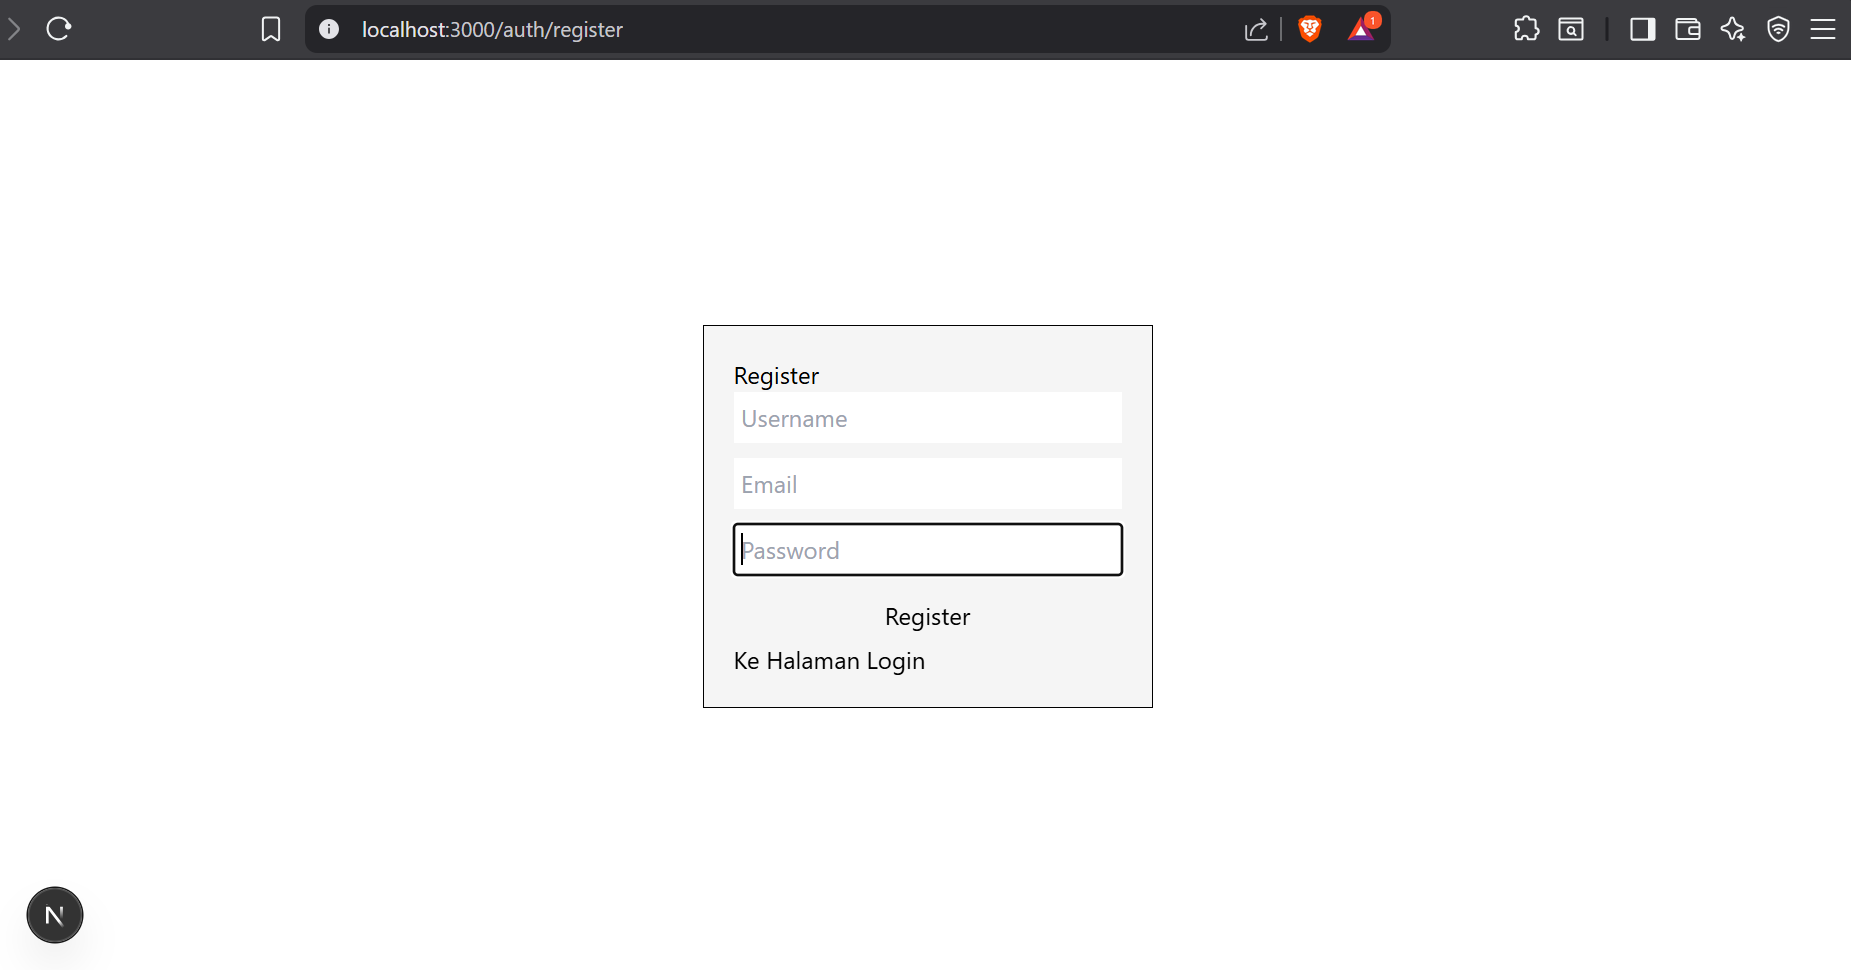
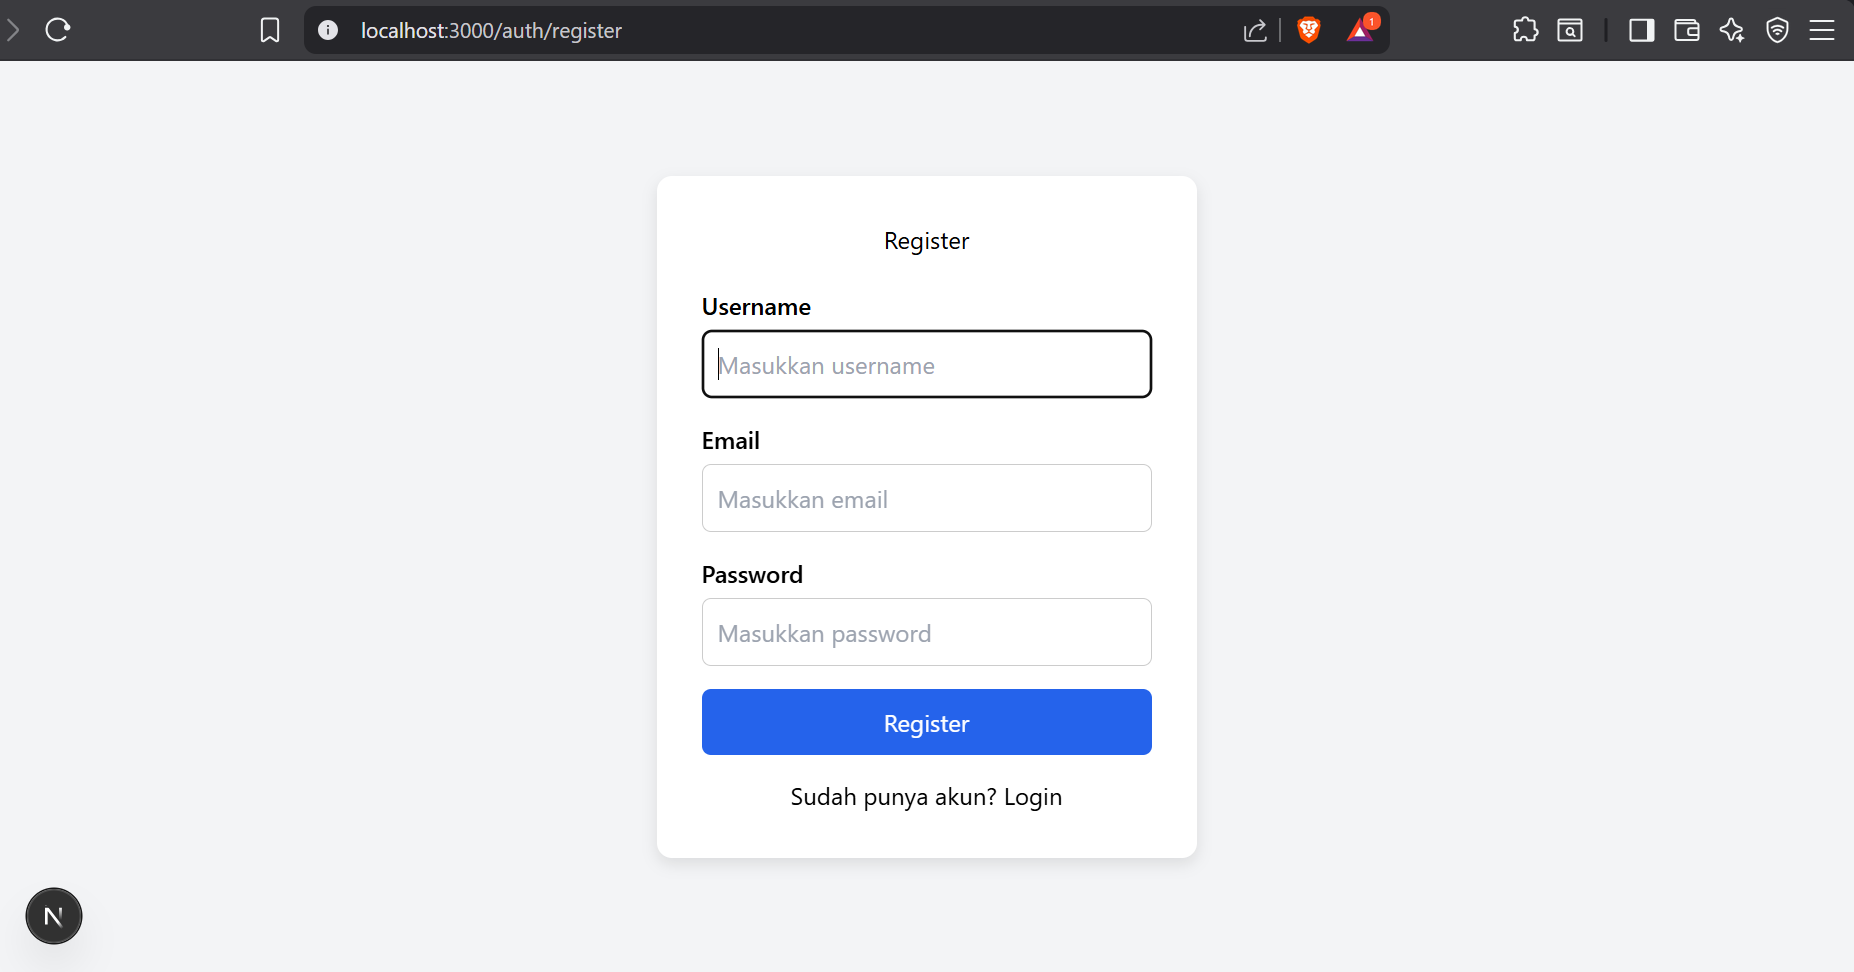
Tugas 3

diff --git a/Pertemuan 4/src/pages/view/auth/register/register.tsx b/Pertemuan 4/src/pages/view/auth/register/register.tsx
@@ -5,31 +5,39 @@ const TampilanRegister = () => {
     return (
         <div className={styles.register}>
             <div className={styles.container}>
-                <h1>Register</h1>
-                <input 
-                    type="text" 
-                    placeholder="Username" 
-                    className={styles.input}
-                />
-                <input 
-                    type="email" 
-                    placeholder="Email" 
-                    className={styles.input}
-                />
-                <input 
-                    type="password" 
-                    placeholder="Password" 
-                    className={styles.input}
-                />
-                <button className={styles.button}>
-                    Register
-                </button>
-                <p>
-                    <Link href="/auth/login">Ke Halaman Login</Link>
-                </p>
+                <div className={styles.card}>
+                    <h1 className={styles.title}>Register</h1>
+
+                    <form>
+                        <div className={styles.inputGroup}>
+                            <label>Username</label>
+                            <input type="text" placeholder="Masukkan username" />
+                        </div>
+
+                        <div className={styles.inputGroup}>
+                            <label>Email</label>
+                            <input type="email" placeholder="Masukkan email" />
+                        </div>
+
+                        <div className={styles.inputGroup}>
+                            <label>Password</label>
+                            <input type="password" placeholder="Masukkan password" />
+                        </div>
+
+                        <button type="submit" className={styles.button}>
+                            Register
+                        </button>
+                    </form>
+
+                    <div className={styles.link}>
+                        <Link href="/auth/login">
+                            Sudah punya akun? Login
+                        </Link>
+                    </div>
+                </div>
             </div>
         </div>
     );
-}
+};
 
 export default TampilanRegister;

diff --git a/Pertemuan 4/src/pages/view/produk/MainSection/index.tsx b/Pertemuan 4/src/pages/view/produk/MainSection/index.tsx
@@ -1,12 +1,30 @@
 const MainSection = () => {
+  const produkList = [
+    { id: 1, nama: "Laptop Asus", deskripsi: "Laptop untuk kebutuhan kuliah", harga: 7500000,},
+    { id: 2, nama: "Mouse Logitech", deskripsi: "Mouse wireless", harga: 150000, },
+    { id: 3, nama: "Keyboard Mechanical", deskripsi: "Keyboard untuk gaming", harga: 450000,},
+  ];
+
   return (
-    <section style={{ padding: "20px" }}>
-      <h2>Daftar Produk</h2>
-      <ul>
-        <li>Produk 1 : Rp. 20.0000</li>
-        <li>Produk 2 : Rp. 30.0000</li>
-        <li>Produk 3 : Rp. 40.0000</li>
-      </ul>
+    <section className="p-6">
+      <h2 className="text-2xl font-bold mb-4">Daftar Produk</h2>
+
+      <div className="grid grid-cols-3 gap-4">
+        {produkList.map((produk) => (
+          <div
+            key={produk.id}
+            className="border p-4 rounded shadow"
+          >
+            <h3 className="font-semibold">{produk.nama}</h3>
+            <p className="text-sm text-gray-600">
+              {produk.deskripsi}
+            </p>
+            <p className="mt-2 font-bold text-blue-600">
+              Rp {produk.harga.toLocaleString()}
+            </p>
+          </div>
+        ))}
+      </div>
     </section>
   );
 };

diff --git a/Pertemuan 4/src/pages/view/auth/register/register.module.css b/Pertemuan 4/src/pages/view/auth/register/register.module.css
@@ -3,22 +3,60 @@
     justify-content: center;
     align-items: center;
     height: 100vh;
+    background-color: #f3f4f6;
 }
 
 .container {
-    width: 300px;
+    width: 100%;
+    max-width: 400px;
     padding: 20px;
-    border: 1px solid black;
-    background-color: #f5f5f5;
 }
 
-.input {
-    width: 100%;
-    padding: 5px;
-    margin-bottom: 10px;
+.card {
+    background-color: #ffffff;
+    padding: 30px;
+    border-radius: 10px;
+    box-shadow: 0 4px 10px rgba(0, 0, 0, 0.1);
+}
+
+.title {
+    text-align: center;
+    margin-bottom: 20px;
+}
+
+.inputGroup {
+    display: flex;
+    flex-direction: column;
+    margin-bottom: 15px;
+}
+
+.inputGroup label {
+    margin-bottom: 5px;
+    font-weight: 500;
+}
+
+.inputGroup input {
+    padding: 10px;
+    border-radius: 6px;
+    border: 1px solid #ccc;
 }
 
 .button {
     width: 100%;
-    padding: 5px;
+    padding: 10px;
+    background-color: #2563eb;
+    color: white;
+    border: none;
+    border-radius: 6px;
+    cursor: pointer;
+    transition: 0.3s;
+}
+
+.button:hover {
+    background-color: #1d4ed8;
+}
+
+.link {
+    margin-top: 15px;
+    text-align: center;
 }

diff --git a/Pertemuan 4/Pertemuan 4.md b/Pertemuan 4/Pertemuan 4.md
@@ -4,9 +4,9 @@
 
 Langkah 1 - Global CSS
 ---
-![images](/images/kode1.png)
+![images](images/kode1.png)
 
-![images](/images/kode2.png)
+![images](images/kode2.png)
 
 Langkah 2 - CSS Module (Local Scope)
 ---
@@ -49,50 +49,50 @@ Langkah 5 - Refactoring Struktur Project (Best Practice)
 
 ![image](images/gambar5.png)
 
-![image](/images/kode9.png)
+![image](images/kode9.png)
 
-![image](/images/kode10.png)
+![image](images/kode10.png)
 
 ![image](images/gambar4.png)
 
 Langkah 6 - Inline Styling (CSS-in-JS)
 ---
 
-![image](/images/kode11.png)
+![image](images/kode11.png)
 
-![image](/images/gambar6.png)
+![image](images/gambar6.png)
 
 
 Langkah 7 - Kombinasi Global CSS + CSS Module 
 ---
 
-![image](/images/kode12.png)
+![image](images/kode12.png)
 
-![image](/images/kode13.png)
+![image](images/kode13.png)
 
 Langkahb 8 - SCSS (SASS)
 ---
 
-![image](/images/gambar7.png)
+![image](images/gambar7.png)
 
-![image](/images/kode15.png)
+![image](images/kode15.png)
 
-![image](/images/kode16.png)
+![image](images/kode16.png)
 
-![image](/images/kode17.png)
+![image](images/kode17.png)
 
-![image](/images/gambar8.png)
+![image](images/gambar8.png)
 
 Langkah 9 - Tailwind CSS
 ---
 
-![image](/images/gambar9.png)
+![image](images/gambar9.png)
 
-![image](/images/kode18.png)
+![image](images/kode18.png)
 
-![image](/images/kode19.png)
+![image](images/kode19.png)
 
-![image](/images/gambar10.png)
+![image](images/gambar10.png)
 
 ### Tugas Praktikum
 #### Tugas 1
@@ -101,13 +101,13 @@ Langkah 9 - Tailwind CSS
 
 • Gunakan CSS Module
 
-![image](/images/kode20.png)
+![image](images/kode20.png)
 
-![image](/images/kode21.png)
+![image](images/kode21(2).png)
 
-![image](/images/kode22.png)
+![image](images/kode22(2).png)
 
-![image](/images/gambar11.png)
+![image](images/gambar11.png)
 
 
 #### Tugas 2
@@ -115,21 +115,25 @@ Langkah 9 - Tailwind CSS
 
 • Pisahkan Hero Section dan Main Section
 
-![image](/images/kode23.png)
+![image](images/kode23.png)
 
-![image](/images/kode24.png)
+![image](images/kode24.png)
 
-![image](/images/kode25.png)
+![image](images/kode25.png)
 
-![image](/images/kode26.png)
+![image](images/kode26.png)
 
-![image](/images/gambar12.png)
+![image](images/gambar12.png)
 
 #### Tugas 3
 • Terapkan Tailwind CSS
 
 • Gunakan minimal 5 utility class
 
+
+![image](images/kode27.png)
+
+![image](/images/gambar13.png)
 
 ### Pertanyaan Refleksi 
 
